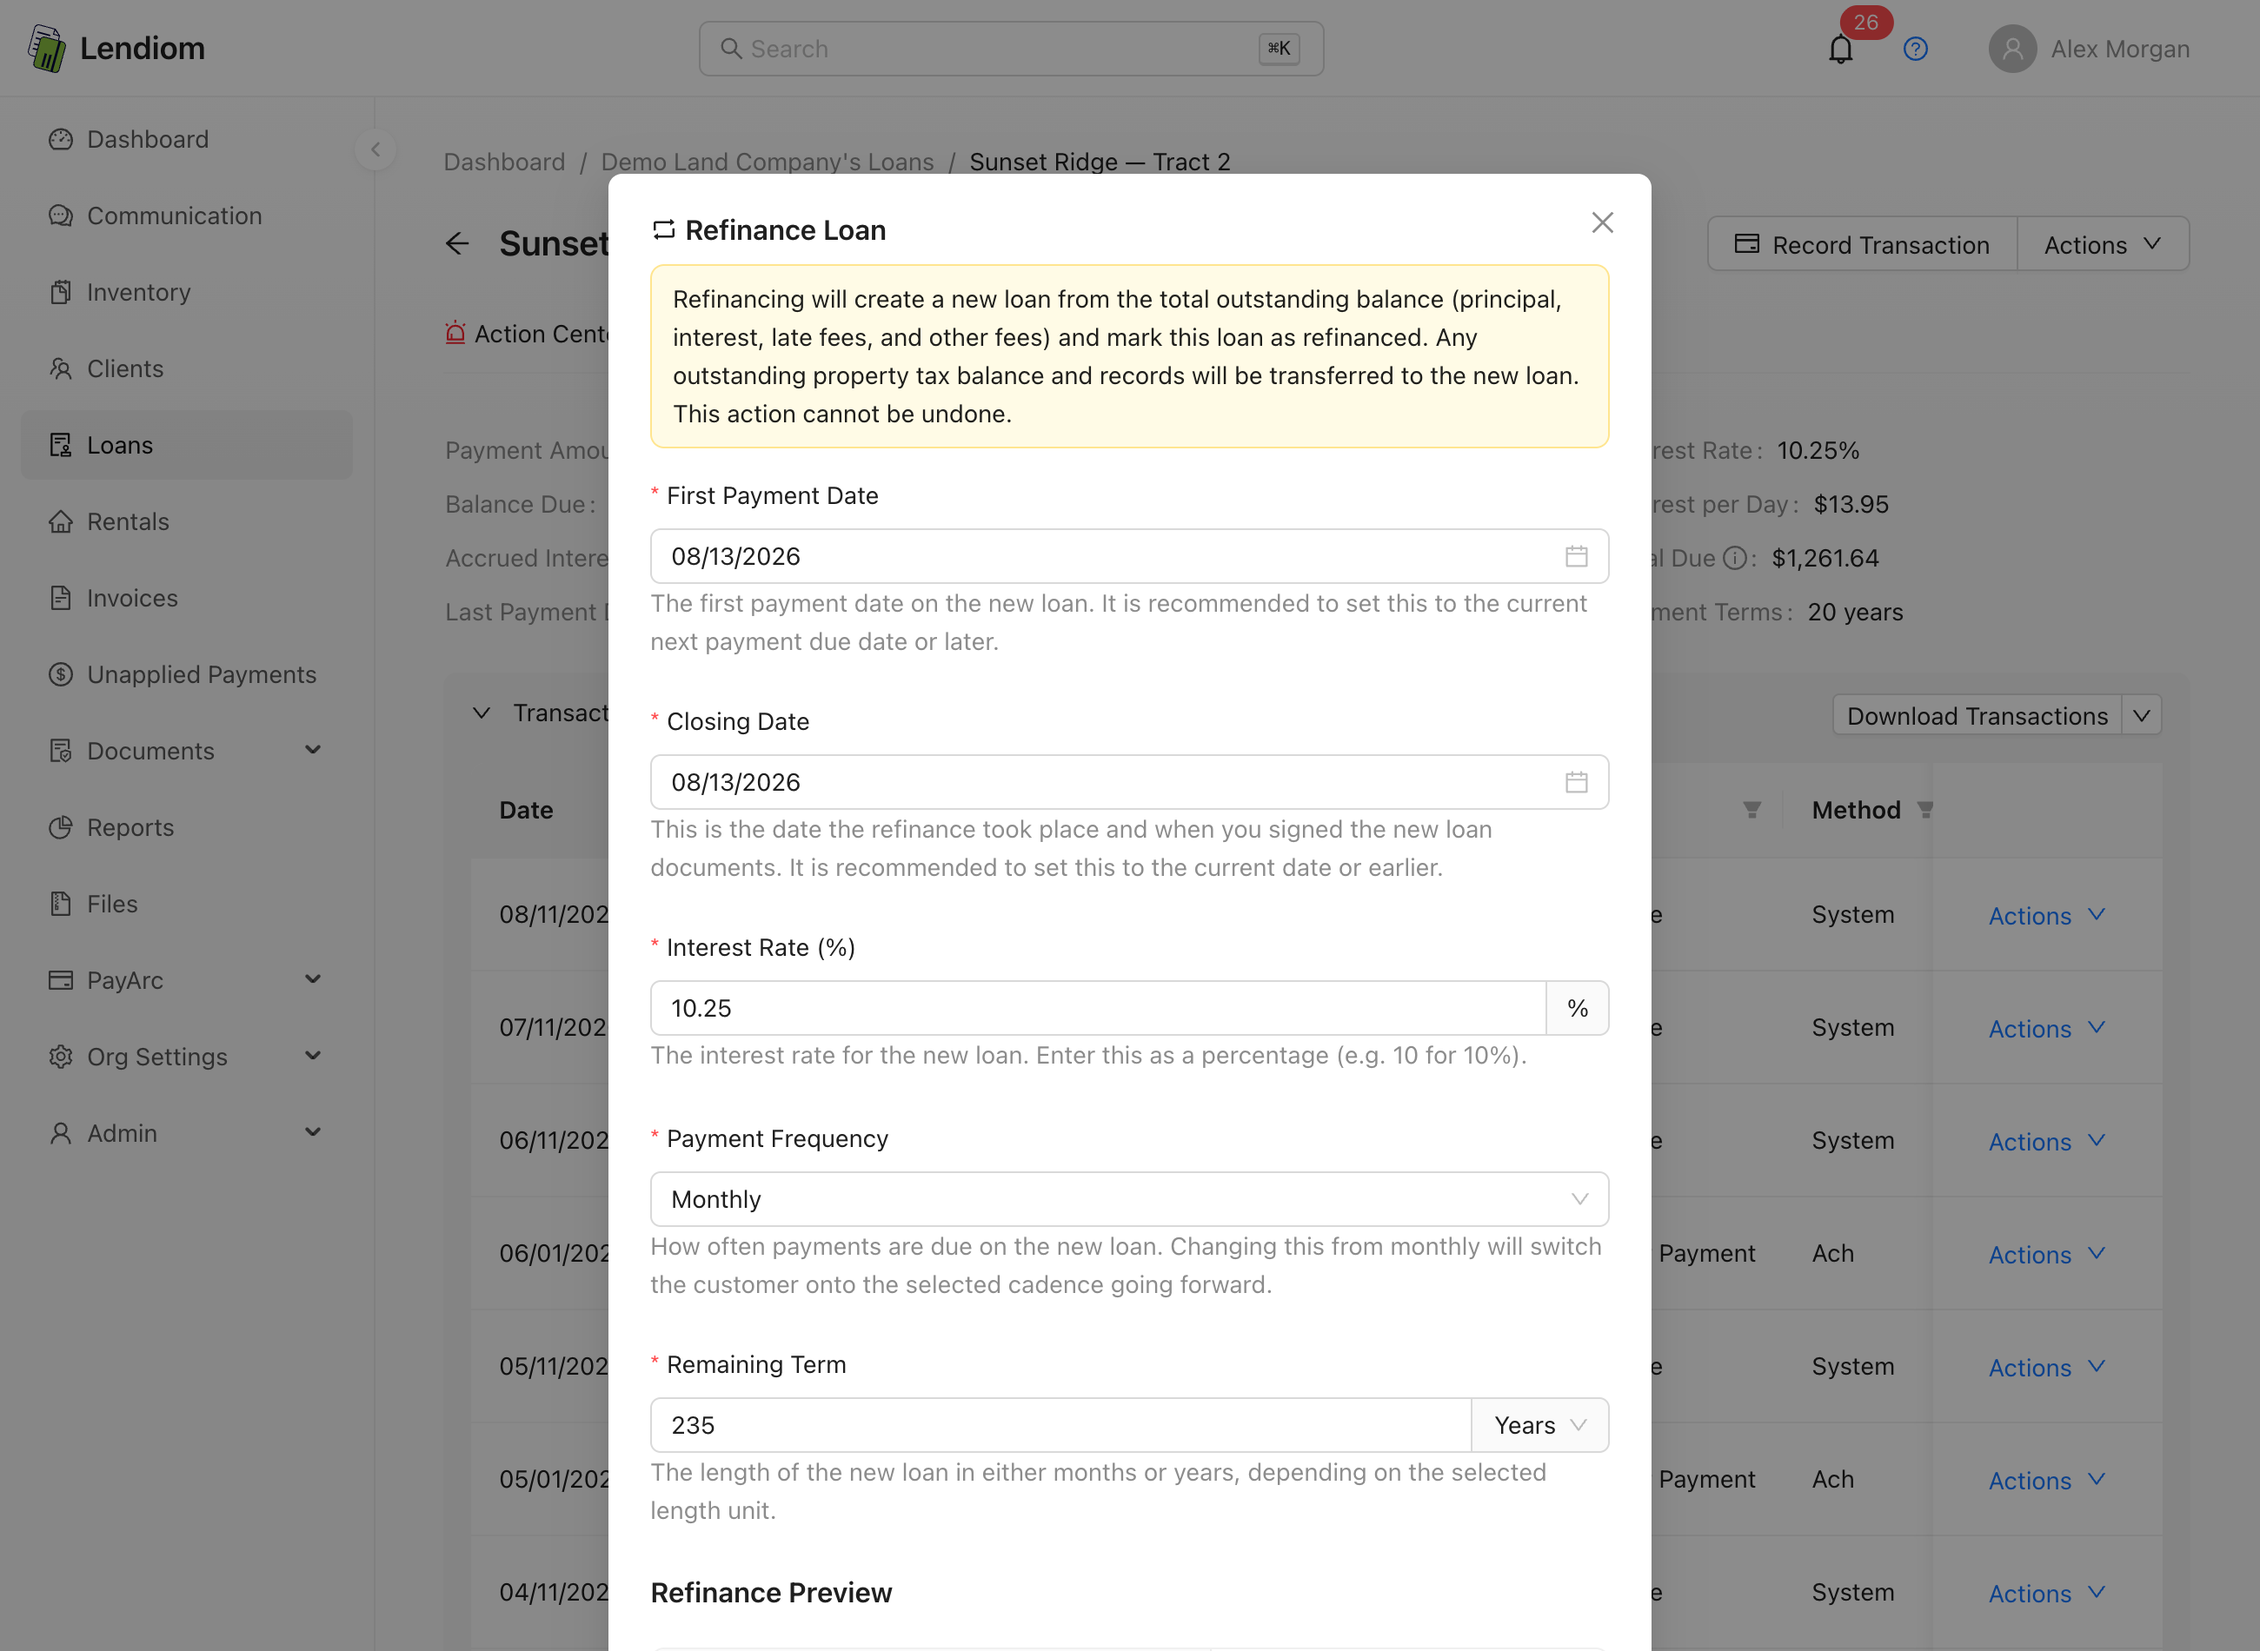
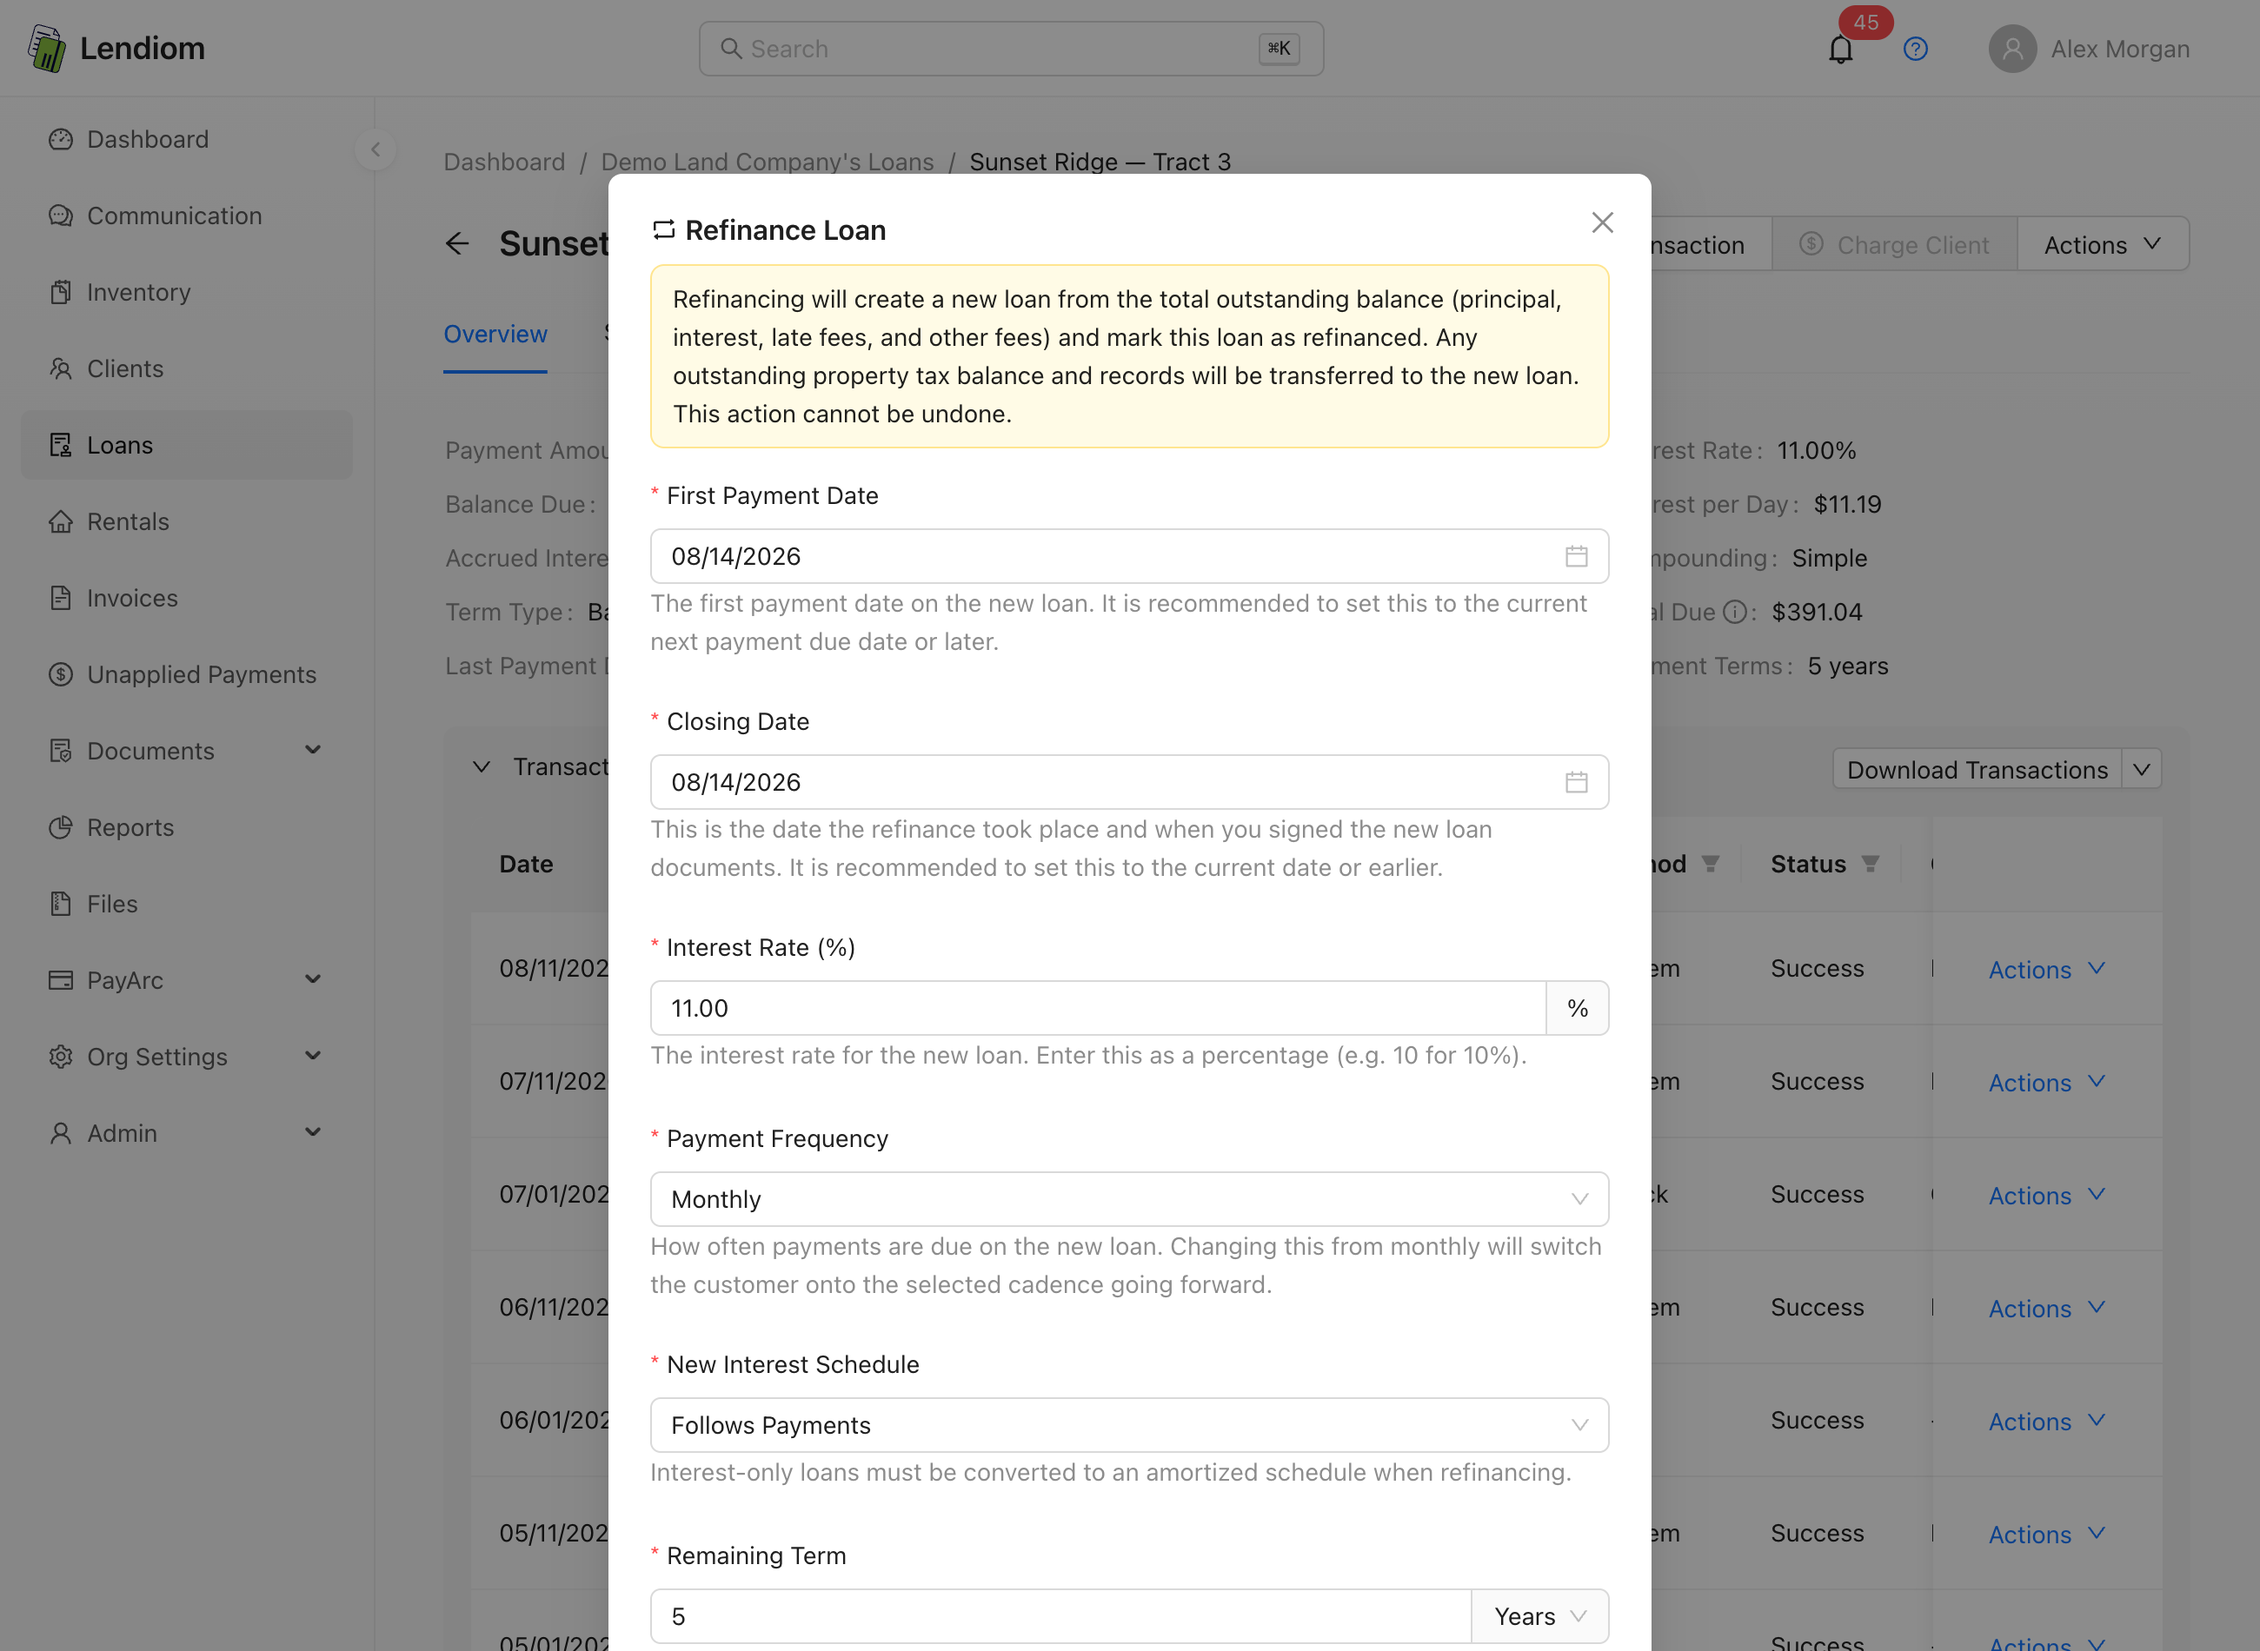
docs: capture refinance and due-date modals
Adds the loan Actions dropdown on a current tract loan, the Refinance modal
on an interest-only loan, the New Due Date modal on a daily-accrual loan, and
the Notes card with its auto-generated system notes.

diff --git a/docs/app/guides/refinancing-a-loan.md b/docs/app/guides/refinancing-a-loan.md
@@ -37,7 +37,7 @@ See [Loan Status](../how-it-works/loan-status.md) for what each status means on 
 
 From the loan page, open **Actions** and pick **Refinance Loan**.
 
-<!-- screenshot: The loan detail page for a Current tract loan with the Actions dropdown open, showing the primary group: Move Due Date, Record Payoff, Refinance Loan, Recast Loan, Calculate Payoff. The Refinance Loan row with its retweet icon should be hovered. -->
+![A current tract loan with its Actions dropdown open, showing the primary actions](/img/docs/app/guides/refinancing-a-loan/01.png)
 
 The window opens with a warning banner across the top and a live preview underneath that recalculates as you type. Nothing is saved until you press **Refinance** and confirm.
 
@@ -97,7 +97,7 @@ If the first payment date plus your shortest late fee grace period already falls
 
 The preview is a real dry run against the server, not a client-side estimate, and it re-runs about half a second after each change. It shows the balances being rolled in, the **New Loan Amount**, **Current Payment** and **New Payment**, **Current Rate** and **New Rate**, the new term, total interest, total payments, and the new schedule's **Next Payment Date** (its first payment) and **Last Payment Date**. Payment and rate are always two rows apiece, shown even when the rate has not moved; a **Frequency Change** or **Schedule Change** row appears only when you actually change the cadence or the interest schedule. On a weekly or biweekly refinance you also get a **Number of Payments** count, because a 60-month term at weekly cadence is roughly 260 payments.
 
-<!-- screenshot: The Refinance Loan modal on an interest-only loan being converted, with the New Interest Schedule dropdown visible and set to Follows Payments, and the preview table showing the Schedule Change row reading "interest only → follows payments" and a Frequency Change row. -->
+![The Refinance Loan modal on an interest-only loan, where the new interest schedule is chosen](/img/docs/app/guides/refinancing-a-loan/02.png)
 
 ## Interest-only loans
 

diff --git a/docs/app/guides/moving-a-due-date.md b/docs/app/guides/moving-a-due-date.md
@@ -88,7 +88,7 @@ On an Accrues Daily loan, leaving **Move Accrued Interest to End of Loan** unche
 Check the box if you want that interest preserved. It is capitalized into the principal balance first, and only then does accrual restart. The modal's own helper text says so: *Additional interest will start accruing from today's date.*
 :::
 
-<!-- screenshot: Close-up of the "Adjust Interest" form item in the New Due Date modal on an Accrues Daily loan, showing the "Move Accrued Interest to End of Loan" checkbox and the helper text reading "This will add $X to the principal balance of the loan. Additional interest will start accruing from today's date." -->
+![The New Due Date modal on a daily-accrual loan, including the adjust-interest choice](/img/docs/app/guides/moving-a-due-date/02.png)
 
 ## The Reason Is Required and Permanent
 
@@ -98,7 +98,7 @@ When the move succeeds, Lendiom writes an auto-generated system note to the loan
 
 System notes cannot be edited. Treat the reason as the permanent record of why this loan's terms changed, because that is exactly what it is — write it for the auditor, the borrower, or the attorney who reads it two years from now, not for yourself today.
 
-<!-- screenshot: The Notes card on a loan detail page showing an auto-generated system note authored by "System", with the text "Auto generated: Jane Doe moved the due date to ... from ... The principal balance was adjusted by ... to account for rolled forward balances." followed by the reason, and with the Edit button disabled. -->
+![The Notes card on a loan, showing the system notes Lendiom writes as things change](/img/docs/app/guides/moving-a-due-date/03.png)
 
 ## Date Limits and Errors
 
